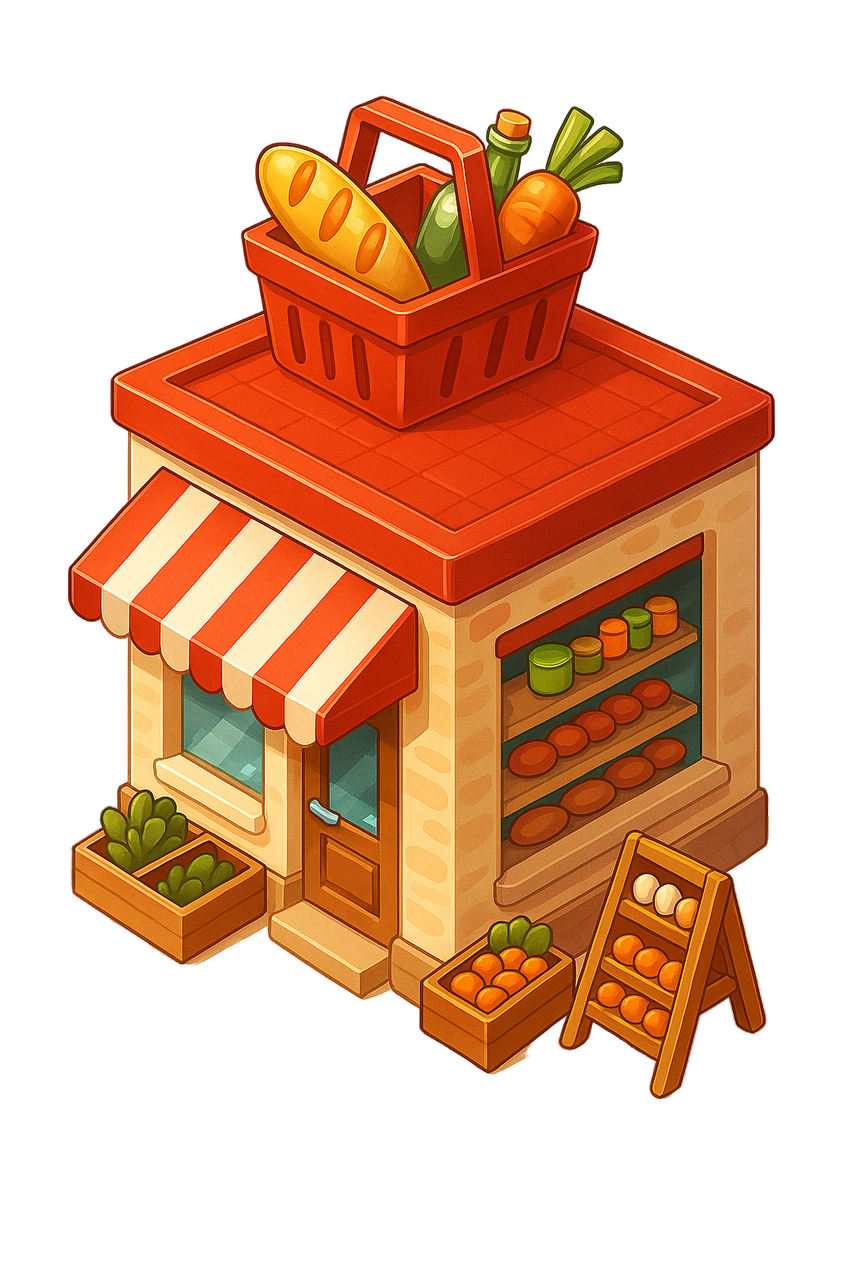
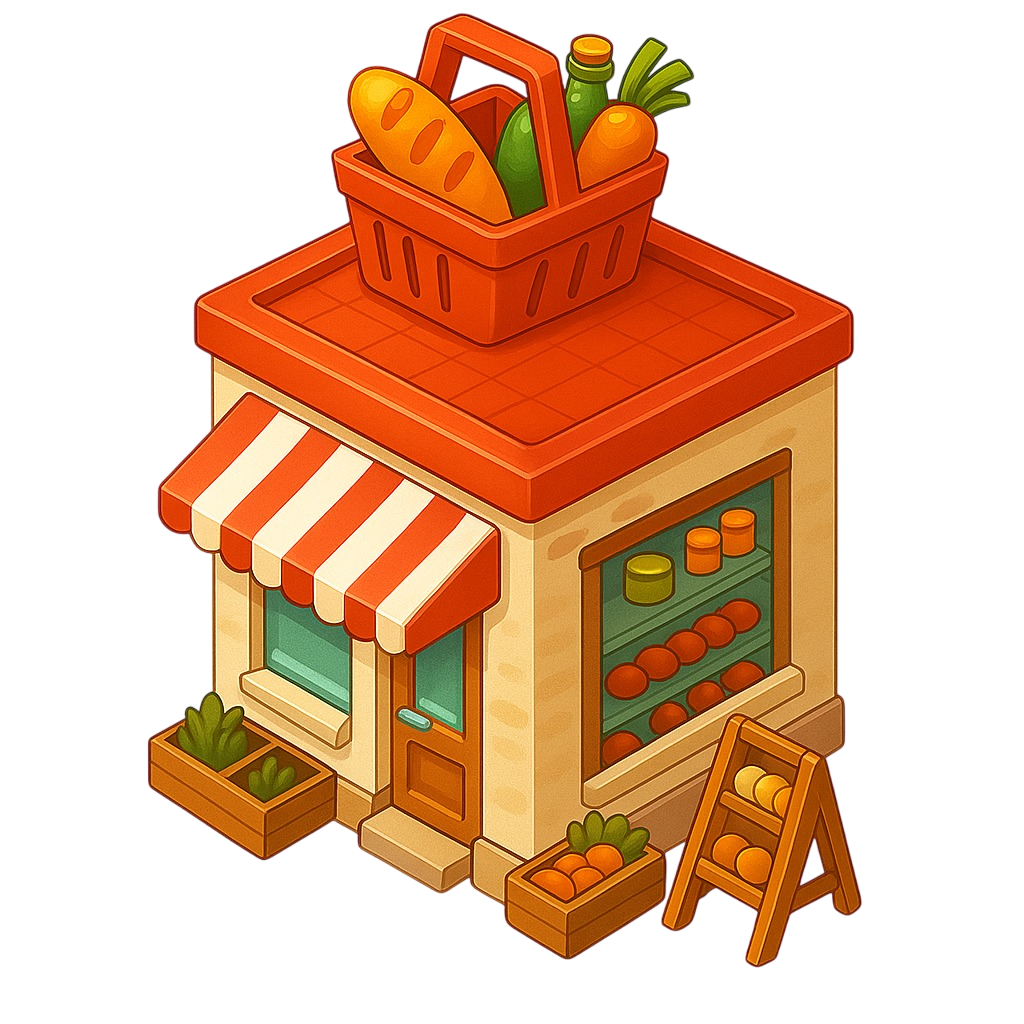
png зданий, убрала рамку у зданий

diff --git a/lib/features/city_map/painters/map_painter.dart b/lib/features/city_map/painters/map_painter.dart
@@ -123,7 +123,7 @@ class MapPainter extends CustomPainter {
         Paint()
           ..style = PaintingStyle.stroke
           ..strokeWidth = 2
-          ..color = b.border,
+          ..color = Colors.transparent,
       );
     }
 
